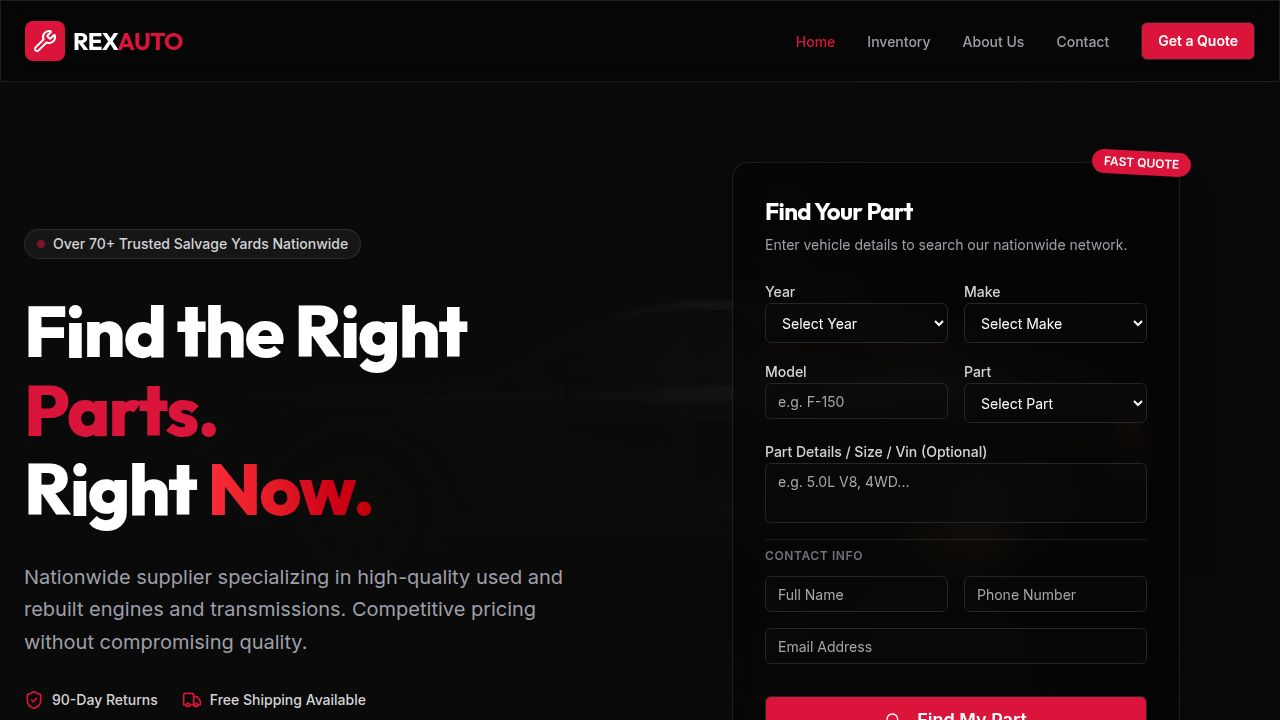
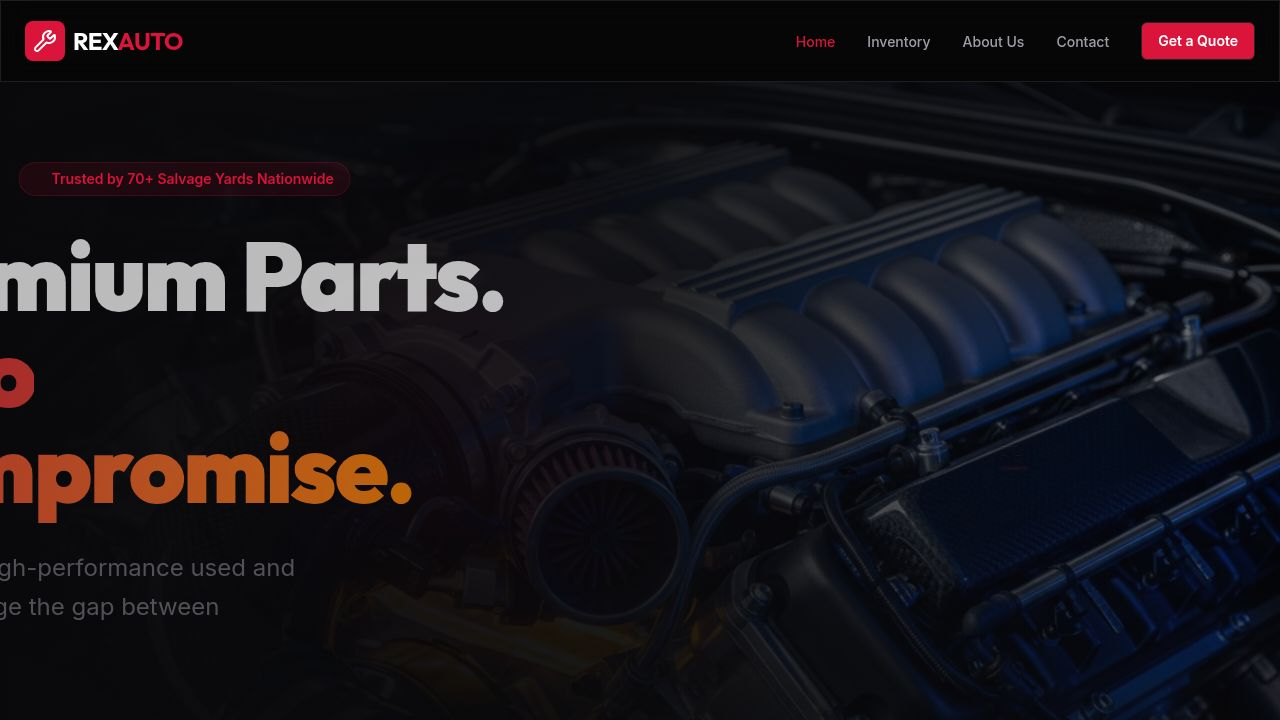
Enhance website hero section with premium visuals and animations
Introduce a new hero section design with updated typography, animations, and a glassmorphism effect for the search input.

Replit-Commit-Author: Agent
Replit-Commit-Session-Id: 341fb6ce-2549-4828-a840-939e6abddec9
Replit-Commit-Checkpoint-Type: full_checkpoint
Replit-Commit-Event-Id: 1f077adb-76d9-4ec6-8047-a62d97850dd8
Replit-Commit-Screenshot-Url: https://storage.googleapis.com/screenshot-production-us-central1/ede4b19b-4a85-4812-b807-7e470ec9b109/341fb6ce-2549-4828-a840-939e6abddec9/L3nfjGY
Replit-Helium-Checkpoint-Created: true

diff --git a/client/src/pages/Home.tsx b/client/src/pages/Home.tsx
@@ -2,133 +2,132 @@ import { Button } from "@/components/ui/button";
 import { Input } from "@/components/ui/input";
 import { Label } from "@/components/ui/label";
 import { Textarea } from "@/components/ui/textarea";
-import { ShieldCheck, Truck, Clock, Wrench, Search, Star, PackageSearch } from "lucide-react";
-import heroEngine from "@/assets/images/hero-engine.jpg";
+import { ShieldCheck, Truck, Clock, Wrench, Search, Star, PackageSearch, ArrowRight, CheckCircle2 } from "lucide-react";
+import heroEngine from "@/assets/images/hero-engine-v2.png";
 import warehouse from "@/assets/images/warehouse.jpg";
 
 export default function Home() {
   return (
-    <div className="w-full">
+    <div className="w-full bg-zinc-950">
       {/* HERO SECTION */}
-      <section className="relative min-h-[90vh] flex items-center pt-20 pb-32 overflow-hidden">
+      <section className="relative min-h-screen flex items-center pt-20 pb-32 overflow-hidden">
         {/* Background Image & Overlay */}
         <div className="absolute inset-0 z-0">
           <img 
             src={heroEngine} 
             alt="Car Engine Bay" 
-            className="w-full h-full object-cover object-center opacity-40"
+            className="w-full h-full object-cover object-center opacity-60 scale-105 animate-slow-zoom"
           />
-          <div className="absolute inset-0 bg-gradient-to-r from-background via-background/95 to-background/50" />
-          <div className="absolute inset-0 bg-gradient-to-t from-background via-transparent to-transparent" />
+          <div className="absolute inset-0 bg-gradient-to-r from-zinc-950 via-zinc-950/80 to-transparent" />
+          <div className="absolute inset-0 bg-gradient-to-t from-zinc-950 via-transparent to-zinc-950/40" />
+          {/* Animated decorative elements */}
+          <div className="absolute top-1/4 left-1/4 w-64 h-64 bg-primary/10 blur-[120px] rounded-full animate-pulse" />
         </div>
 
         <div className="container relative z-10 mx-auto px-4 md:px-6">
-          <div className="grid lg:grid-cols-2 gap-12 lg:gap-8 items-center">
+          <div className="grid lg:grid-cols-12 gap-12 items-center">
             {/* Hero Content */}
-            <div className="space-y-8 max-w-2xl">
-              <div className="inline-flex items-center gap-2 px-3 py-1 rounded-full bg-white/5 border border-white/10 text-sm font-medium text-zinc-300">
-                <span className="flex h-2 w-2 rounded-full bg-primary animate-pulse" />
-                Over 70+ Trusted Salvage Yards Nationwide
+            <div className="lg:col-span-7 space-y-8">
+              <div className="inline-flex items-center gap-2 px-4 py-1.5 rounded-full bg-primary/10 border border-primary/20 text-sm font-semibold text-primary animate-in fade-in slide-in-from-left duration-700">
+                <span className="flex h-2 w-2 rounded-full bg-primary animate-ping" />
+                Trusted by 70+ Salvage Yards Nationwide
               </div>
               
-              <h1 className="text-5xl md:text-6xl lg:text-7xl font-display font-extrabold leading-[1.1] text-white">
-                Find the Right <span className="text-primary">Parts.</span><br />
-                Right <span className="text-gradient">Now.</span>
+              <h1 className="text-6xl md:text-7xl lg:text-8xl font-display font-black leading-[1] text-white tracking-tight animate-in fade-in slide-in-from-left duration-1000 delay-150">
+                Premium Parts.<br />
+                <span className="text-transparent bg-clip-text bg-gradient-to-r from-primary to-orange-400">Zero Compromise.</span>
               </h1>
               
-              <p className="text-lg md:text-xl text-zinc-400 leading-relaxed max-w-xl">
-                Nationwide supplier specializing in high-quality used and rebuilt engines and transmissions. Competitive pricing without compromising quality.
+              <p className="text-xl md:text-2xl text-zinc-400 leading-relaxed max-w-xl animate-in fade-in slide-in-from-left duration-1000 delay-300">
+                Your direct source for high-performance used and rebuilt engines. We bridge the gap between salvage and superior.
               </p>
 
-              <div className="flex flex-wrap items-center gap-6 text-sm font-medium text-zinc-300">
-                <div className="flex items-center gap-2">
-                  <ShieldCheck className="w-5 h-5 text-primary" />
-                  <span>90-Day Returns</span>
+              <div className="flex flex-wrap items-center gap-8 pt-4 animate-in fade-in slide-in-from-left duration-1000 delay-500">
+                <div className="flex items-center gap-3">
+                  <div className="p-2 rounded-lg bg-zinc-900 border border-white/5">
+                    <ShieldCheck className="w-6 h-6 text-primary" />
+                  </div>
+                  <div>
+                    <p className="text-white font-bold leading-none">90-Day Returns</p>
+                    <p className="text-xs text-zinc-500 mt-1">Guaranteed Satisfaction</p>
+                  </div>
                 </div>
-                <div className="flex items-center gap-2">
-                  <Truck className="w-5 h-5 text-primary" />
-                  <span>Free Shipping Available</span>
+                <div className="flex items-center gap-3">
+                  <div className="p-2 rounded-lg bg-zinc-900 border border-white/5">
+                    <Truck className="w-6 h-6 text-primary" />
+                  </div>
+                  <div>
+                    <p className="text-white font-bold leading-none">Fast Shipping</p>
+                    <p className="text-xs text-zinc-500 mt-1">Nationwide Delivery</p>
+                  </div>
                 </div>
               </div>
             </div>
 
-            {/* Search Form */}
-            <div className="relative w-full max-w-md mx-auto lg:ml-auto glass-panel p-6 sm:p-8 rounded-2xl shadow-2xl">
-              <div className="absolute -top-3 -right-3 bg-primary text-white text-xs font-bold px-3 py-1 rounded-full shadow-lg transform rotate-3">
-                FAST QUOTE
-              </div>
-              
-              <div className="mb-6">
-                <h3 className="text-2xl font-display font-bold text-white mb-2">Find Your Part</h3>
-                <p className="text-zinc-400 text-sm">Enter vehicle details to search our nationwide network.</p>
-              </div>
-
-              <form className="space-y-4" onSubmit={(e) => e.preventDefault()}>
-                <div className="grid grid-cols-2 gap-4">
-                  <div className="space-y-2">
-                    <Label htmlFor="year" className="text-zinc-300">Year</Label>
-                    <select id="year" className="flex h-10 w-full rounded-md border border-input bg-background/50 px-3 py-2 text-sm ring-offset-background file:border-0 file:bg-transparent file:text-sm file:font-medium placeholder:text-muted-foreground focus-visible:outline-none focus-visible:ring-2 focus-visible:ring-ring focus-visible:ring-offset-2 disabled:cursor-not-allowed disabled:opacity-50 text-white" data-testid="select-year">
-                      <option value="">Select Year</option>
-                      {[...Array(30)].map((_, i) => (
-                        <option key={i} value={2024 - i}>{2024 - i}</option>
-                      ))}
-                    </select>
+            {/* Search Form Card */}
+            <div className="lg:col-span-5 relative animate-in fade-in zoom-in duration-1000 delay-500">
+              <div className="absolute -inset-0.5 bg-gradient-to-br from-primary/50 to-orange-500/30 rounded-3xl blur opacity-30 group-hover:opacity-100 transition duration-1000"></div>
+              <div className="relative glass-panel p-8 md:p-10 rounded-3xl border border-white/10 shadow-2xl bg-zinc-900/40 backdrop-blur-xl">
+                <div className="flex items-center justify-between mb-8">
+                  <div>
+                    <h3 className="text-2xl font-display font-bold text-white mb-1">Instant Inventory Search</h3>
+                    <p className="text-zinc-400 text-sm italic">Get a quote in 60 seconds or less</p>
                   </div>
-                  <div className="space-y-2">
-                    <Label htmlFor="make" className="text-zinc-300">Make</Label>
-                    <select id="make" className="flex h-10 w-full rounded-md border border-input bg-background/50 px-3 py-2 text-sm ring-offset-background file:border-0 file:bg-transparent file:text-sm file:font-medium placeholder:text-muted-foreground focus-visible:outline-none focus-visible:ring-2 focus-visible:ring-ring focus-visible:ring-offset-2 disabled:cursor-not-allowed disabled:opacity-50 text-white" data-testid="select-make">
-                      <option value="">Select Make</option>
-                      <option value="ford">Ford</option>
-                      <option value="chevrolet">Chevrolet</option>
-                      <option value="toyota">Toyota</option>
-                      <option value="honda">Honda</option>
-                      <option value="bmw">BMW</option>
-                    </select>
+                  <div className="hidden sm:flex h-12 w-12 rounded-2xl bg-primary/10 items-center justify-center border border-primary/20">
+                    <Search className="w-6 h-6 text-primary" />
                   </div>
                 </div>
 
-                <div className="grid grid-cols-2 gap-4">
-                  <div className="space-y-2">
-                    <Label htmlFor="model" className="text-zinc-300">Model</Label>
-                    <Input id="model" placeholder="e.g. F-150" className="bg-background/50 border-input text-white" data-testid="input-model" />
-                  </div>
-                  <div className="space-y-2">
-                    <Label htmlFor="part" className="text-zinc-300">Part</Label>
-                    <select id="part" className="flex h-10 w-full rounded-md border border-input bg-background/50 px-3 py-2 text-sm ring-offset-background file:border-0 file:bg-transparent file:text-sm file:font-medium placeholder:text-muted-foreground focus-visible:outline-none focus-visible:ring-2 focus-visible:ring-ring focus-visible:ring-offset-2 disabled:cursor-not-allowed disabled:opacity-50 text-white" data-testid="select-part">
-                      <option value="">Select Part</option>
-                      <option value="engine">Engine Assembly</option>
-                      <option value="transmission">Transmission</option>
-                      <option value="axle">Axle Assembly</option>
-                      <option value="transfer_case">Transfer Case</option>
-                    </select>
-                  </div>
-                </div>
-
-                <div className="space-y-2">
-                  <Label htmlFor="details" className="text-zinc-300">Part Details / Size / Vin (Optional)</Label>
-                  <Textarea id="details" placeholder="e.g. 5.0L V8, 4WD..." className="bg-background/50 border-input text-white resize-none" rows={2} data-testid="input-details" />
-                </div>
-
-                <div className="pt-2 border-t border-white/10 mt-2">
-                  <p className="text-xs text-zinc-500 mb-3 uppercase tracking-wider font-semibold">Contact Info</p>
-                  <div className="grid grid-cols-1 sm:grid-cols-2 gap-4">
+                <form className="space-y-5" onSubmit={(e) => e.preventDefault()}>
+                  <div className="grid grid-cols-2 gap-4">
                     <div className="space-y-2">
-                      <Input id="name" placeholder="Full Name" className="bg-background/50 border-input text-white" data-testid="input-name" />
+                      <Label htmlFor="year" className="text-xs uppercase tracking-widest font-bold text-zinc-500 ml-1">Year</Label>
+                      <select id="year" className="flex h-12 w-full rounded-xl border border-white/10 bg-zinc-950/50 px-4 py-2 text-sm text-white focus:ring-2 focus:ring-primary/50 transition-all outline-none" data-testid="select-year">
+                        <option value="">Select Year</option>
+                        {[...Array(30)].map((_, i) => (
+                          <option key={i} value={2024 - i}>{2024 - i}</option>
+                        ))}
+                      </select>
                     </div>
                     <div className="space-y-2">
-                      <Input id="phone" type="tel" placeholder="Phone Number" className="bg-background/50 border-input text-white" data-testid="input-phone" />
+                      <Label htmlFor="make" className="text-xs uppercase tracking-widest font-bold text-zinc-500 ml-1">Make</Label>
+                      <select id="make" className="flex h-12 w-full rounded-xl border border-white/10 bg-zinc-950/50 px-4 py-2 text-sm text-white focus:ring-2 focus:ring-primary/50 transition-all outline-none" data-testid="select-make">
+                        <option value="">Select Make</option>
+                        <option value="ford">Ford</option>
+                        <option value="chevrolet">Chevrolet</option>
+                        <option value="toyota">Toyota</option>
+                        <option value="honda">Honda</option>
+                        <option value="bmw">BMW</option>
+                      </select>
                     </div>
                   </div>
-                  <div className="space-y-2 mt-4">
-                    <Input id="email" type="email" placeholder="Email Address" className="bg-background/50 border-input text-white" data-testid="input-email" />
-                  </div>
-                </div>
 
-                <Button className="w-full bg-primary hover:bg-primary/90 text-white h-12 text-lg font-bold mt-4" data-testid="button-find-part">
-                  <Search className="w-5 h-5 mr-2" />
-                  Find My Part
-                </Button>
-              </form>
+                  <div className="grid grid-cols-2 gap-4">
+                    <div className="space-y-2">
+                      <Label htmlFor="model" className="text-xs uppercase tracking-widest font-bold text-zinc-500 ml-1">Model</Label>
+                      <Input id="model" placeholder="e.g. F-150" className="h-12 rounded-xl bg-zinc-950/50 border-white/10 text-white" data-testid="input-model" />
+                    </div>
+                    <div className="space-y-2">
+                      <Label htmlFor="part" className="text-xs uppercase tracking-widest font-bold text-zinc-500 ml-1">Part Category</Label>
+                      <select id="part" className="flex h-12 w-full rounded-xl border border-white/10 bg-zinc-950/50 px-4 py-2 text-sm text-white focus:ring-2 focus:ring-primary/50 transition-all outline-none" data-testid="select-part">
+                        <option value="">Select Part</option>
+                        <option value="engine">Engine Assembly</option>
+                        <option value="transmission">Transmission</option>
+                        <option value="axle">Axle Assembly</option>
+                        <option value="transfer_case">Transfer Case</option>
+                      </select>
+                    </div>
+                  </div>
+
+                  <div className="pt-4 mt-4 border-t border-white/5">
+                    <Button className="w-full bg-primary hover:bg-primary/90 text-white h-14 text-lg font-black rounded-xl shadow-xl shadow-primary/20 group" data-testid="button-find-part">
+                      SEARCH INVENTORY
+                      <ArrowRight className="w-5 h-5 ml-2 group-hover:translate-x-1 transition-transform" />
+                    </Button>
+                    <p className="text-center text-[10px] text-zinc-500 mt-4 uppercase tracking-[0.2em]">Verified Inventory • secure checkouts</p>
+                  </div>
+                </form>
+              </div>
             </div>
           </div>
         </div>

diff --git a/client/src/index.css b/client/src/index.css
@@ -30,6 +30,13 @@
   
   --font-sans: 'Inter', sans-serif;
   --font-display: 'Outfit', sans-serif;
+
+  --animate-slow-zoom: slow-zoom 20s ease-in-out infinite alternate;
+
+  @keyframes slow-zoom {
+    from { transform: scale(1); }
+    to { transform: scale(1.1); }
+  }
 }
 
 /* DARK MODE ONLY FOR THIS DESIGN */
@@ -43,7 +50,7 @@
   --popover: 0 0% 7%;
   --popover-foreground: 0 0% 98%;
 
-  --primary: 348 83% 47%;
+  --primary: 24.6 95% 53.1%;
   --primary-foreground: 0 0% 100%;
 
   --secondary: 0 0% 12%;
@@ -52,7 +59,7 @@
   --muted: 0 0% 12%;
   --muted-foreground: 0 0% 65%;
 
-  --accent: 348 83% 47%;
+  --accent: 24.6 95% 53.1%;
   --accent-foreground: 0 0% 100%;
 
   --destructive: 0 84% 60%;
@@ -60,9 +67,9 @@
 
   --border: 0 0% 15%;
   --input: 0 0% 15%;
-  --ring: 348 83% 47%;
+  --ring: 24.6 95% 53.1%;
   
-  --radius: 0.5rem;
+  --radius: 0.75rem;
 }
 
 @layer base {
@@ -79,10 +86,10 @@
 
 @layer utilities {
   .glass-panel {
-    @apply bg-black/40 backdrop-blur-md border border-white/10;
+    @apply bg-black/40 backdrop-blur-xl border border-white/10;
   }
   
   .text-gradient {
-    @apply bg-clip-text text-transparent bg-gradient-to-r from-red-500 to-red-700;
+    @apply bg-clip-text text-transparent bg-gradient-to-r from-primary to-orange-400;
   }
 }
